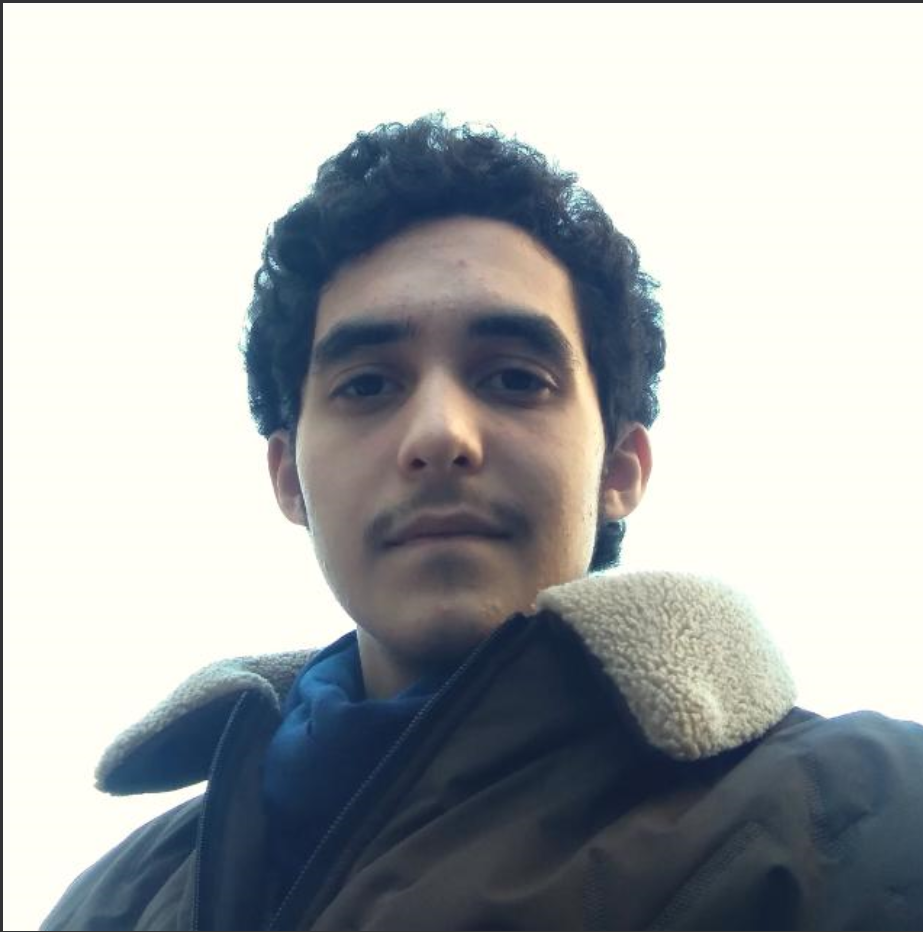
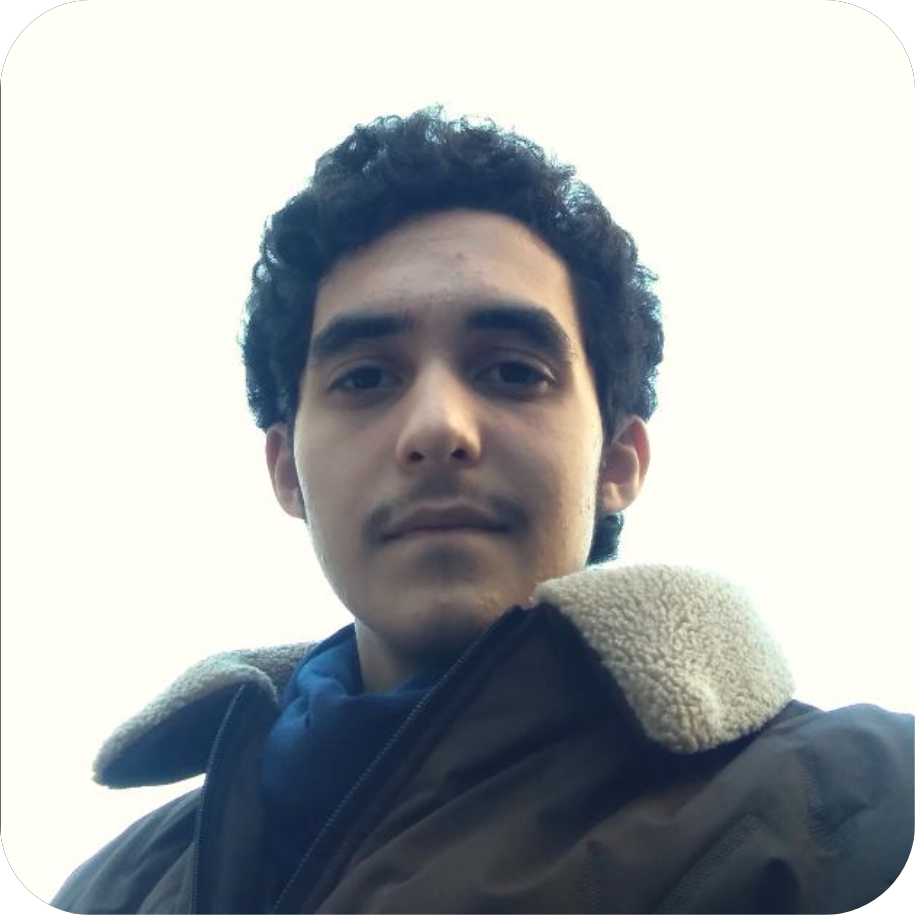
alteracao login e foto de participantes

diff --git a/sobre.html b/sobre.html
@@ -114,7 +114,7 @@
                     </div>
 
                     <div class="integrante">
-                        <img src="img/viviane.png" alt="" class="perfil-integrante">
+                        <img src="img/viviane.jpg" alt="" class="perfil-integrante">
                         <h3>Viviane</h3>
                         <p>Estudante do primeiro semestre de Desenvolvimento de Software na Fatec Zona-Leste. </p>
                     </div>

diff --git a/login.html b/login.html
@@ -57,7 +57,7 @@
             <div class="container-img-login"> 
             </div>
             <div class="container-input-login">
-                <h1>Login</h1>
+                <h1 id="titulo">Login</h1>
                 <div class="icones-redes-sociais">
                     <i class="fa-brands fa-facebook"></i>
                     <i class="fa-brands fa-google"></i>

diff --git a/index.html b/index.html
@@ -84,7 +84,7 @@
         </div>
         
         <div id="quarta_div">
-            <img id="faca_cadastro" src="img/quarta_div_index.png">
+            <div id="faca_cadastro">Faca seu login<br>E se aventure nesse mundo com a gente</div>
             <a href="login.html"><button id="botao">Login</button></a>
         </div>
 

diff --git a/css/index.css b/css/index.css
@@ -157,8 +157,15 @@ main {
 }
 
 #faca_cadastro{
-    width: 90vw;
+    width: 100vw;
     margin-top: 3vw;
+    font-family: "Bebas Neue", sans-serif;
+    font-weight: 400;
+    font-style: normal;
+    font-size: 4.8vw;
+    color: #298447;
+    letter-spacing: 1px;
+    margin-bottom: 3vw;
 }
 
 #botao{

diff --git a/css/login.css b/css/login.css
@@ -157,3 +157,13 @@ main{
         border-radius: 12px;
     }
 }
+
+#email, #senha{
+    border-radius: 0px;
+    border-bottom: solid 1px #000;
+}
+
+#titulo{
+    color: #298447;
+
+}

diff --git a/css/sobre.css b/css/sobre.css
@@ -69,6 +69,8 @@ main{
     background-color: #000;
     border-radius: 50%;
     object-fit: contain;
+    background-size: cover;
+
 }
 
 .texto{
